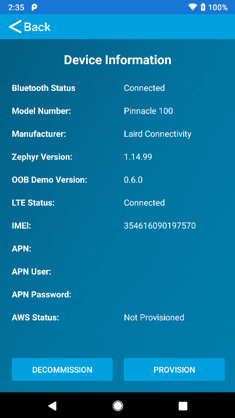
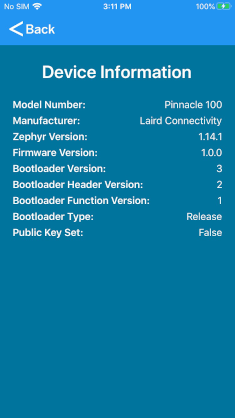
Update guide for new mobile app release
Update the user guide to align with mobile app release v1.0.0

diff --git a/README.md b/README.md
@@ -9,8 +9,11 @@
 5. **[Using the Demo](#using-the-demo)**  
    [Signup and Login](#signup-and-login)  
    [Scan for Devices](#scan-for-devices)  
-   [Device Information Page](#device-information-page)  
-   [Provision](#provision)
+   [Home Page](#home-page)  
+   [Provision](#provision)  
+   [Device Information](#device-information)  
+   [Cellular Settings](#cellular-settings)  
+   [Power Settings](#power-settings)  
 6. **[Cloud Data](#cloud-data)**
 7. **[LED behavior](#led-behavior)**
 8. **[Development](#development)**  
@@ -110,14 +113,14 @@ _Scan screen - devices found_
 
 2. Click on the desired device to connect to it.
 
-### Device Information Page
+### Home Page
 
-The Device Information page acts as a home page for the device. It displays all relevant device status information. The only available actions are the ability to provision or decommission the device.
+The home screen displays status information releated to the OOB demo. From the home page you can commission or decommission the device and navigate to other settings or info pages.
 
 > **Note:** Provisioning is only allowed if the device is in an un-provisioned state.
 
-![Device Information screen](docs/images/device_info.png)  
-_Device Information screen_
+![Home screen](docs/images/home.png)  
+_Home screen_
 
 ### Provision
 
@@ -141,6 +144,27 @@ _Device commissioned and connected to AWS_
 
 ![Device decommissioned](docs/images/decommissioned.png)  
 _Device decommissioned_
+
+### Device Information
+
+The device information page displays relevant version information of the connected Pinnacle 100 modem.
+
+![Device information](docs/images/device_info.png)  
+_Device info_
+
+### Cellular Settings
+
+The cellular settings page displays status information related to the cellular radio and allows the user to change the APN.
+
+![Cellular settings](docs/images/cell_settings.png)  
+_Cell settings_
+
+### Power Settings
+
+The power settings page displays the power supply voltage and allows the user to reboot the modem.
+
+![Power settings](docs/images/power_settings.png)  
+_Power settings_
 
 ## Cloud Data
 
